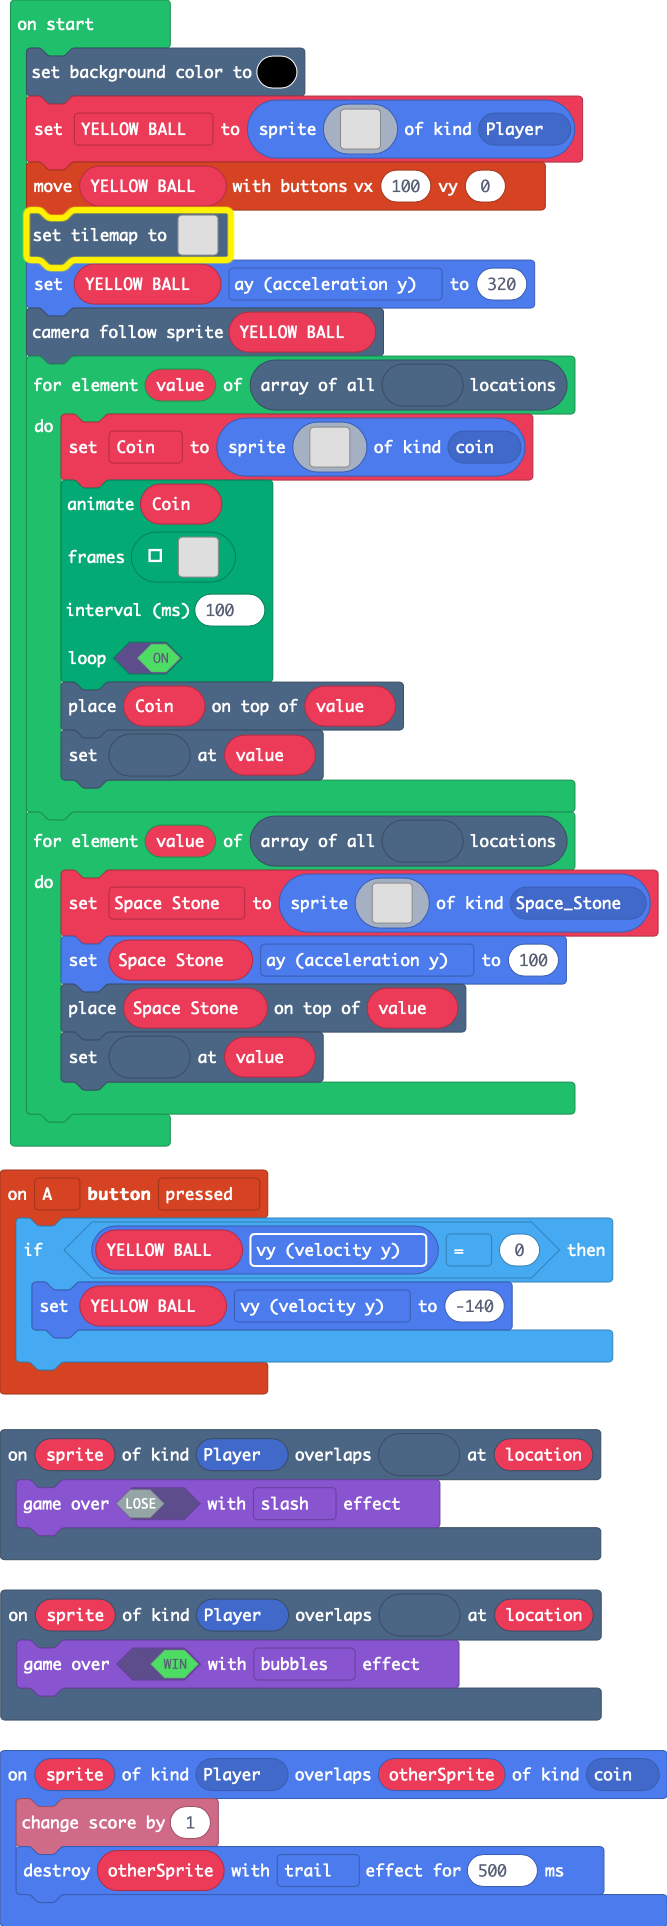
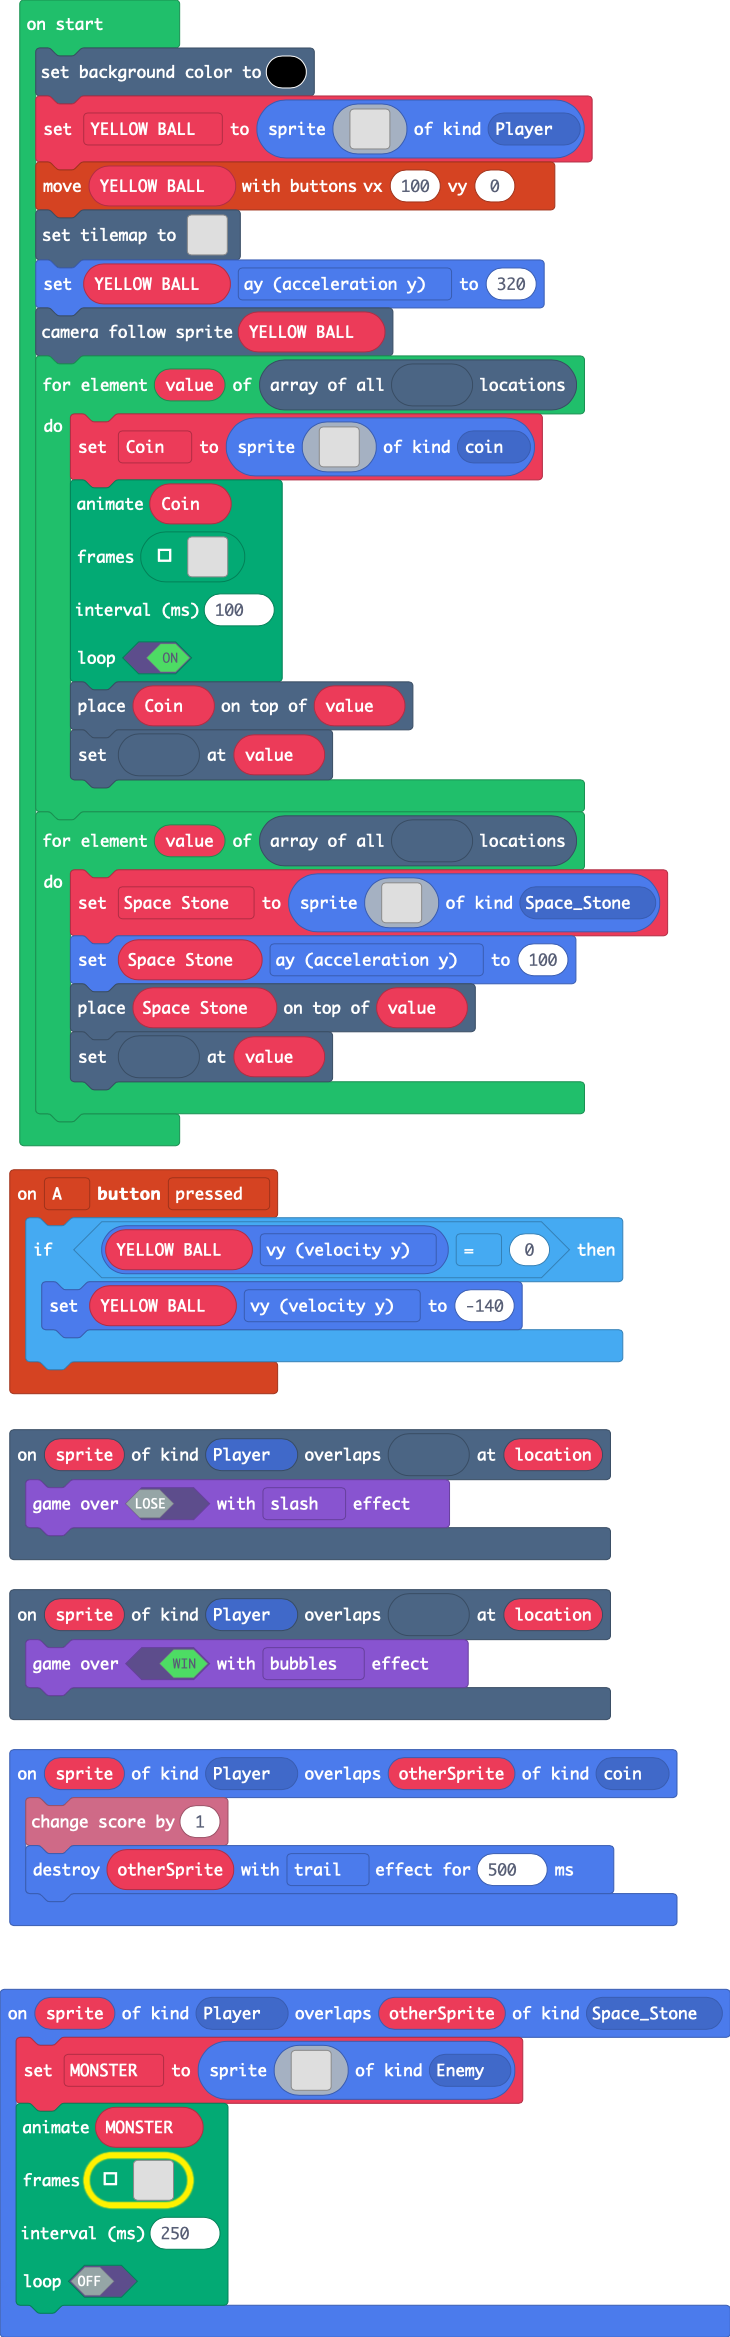
created an enemy animation

diff --git a/main.ts b/main.ts
@@ -137,6 +137,66 @@ f f f f f f f f f f f f f f f f
 7 7 7 7 7 7 7 7 7 7 7 7 7 7 7 7 
 `
 }
+sprites.onOverlap(SpriteKind.Player, SpriteKind.Space_Stone, function (sprite, otherSprite) {
+    MONSTER = sprites.create(img`
+. . . . . . . . . . . . . . . . 
+. . . . . . . . . . . . . . . . 
+. . . . . . . . . . . . . . . . 
+. . . . . . . . . . . . . . . . 
+. . . . . . . . . . . . . . . . 
+. . . . . . . . . . . . . . . . 
+. . . . . . . . . . . . . . . . 
+. . . . . . . . . . . . . . . . 
+. . . . . . . . . . . . . . . . 
+. . . . . . . . . . . . . . . . 
+. . . . . . . . . . . . . . . . 
+. . . . . . . . . . . . . . . . 
+. . . . . . . . . . . . . . . . 
+. . . . . . . . . . . . . . . . 
+. . . . . . . . . . . . . . . . 
+. . . . . . . . . . . . . . . . 
+`, SpriteKind.Enemy)
+    animation.runImageAnimation(
+    MONSTER,
+    [img`
+. . . . . 2 2 2 2 2 . . . . . . 
+. . . . . 2 1 2 1 2 . . . . . . 
+. . . . . 2 2 1 2 2 . . . . . . 
+. . . . . . . 2 . . . . . . . . 
+. . . . 2 2 2 2 2 2 2 . . . . . 
+. . . . . . . 2 . . . . . . . . 
+. . . . . . . 2 . . . . . . . . 
+. . . . . . 2 2 2 . . . . . . . 
+. . . . . 2 2 . 2 2 . . . . . . 
+. . . . . 2 . . . 2 . . . . . . 
+. . . . . . . . . . . . . . . . 
+. . . . . . . . . . . . . . . . 
+. . . . . . . . . . . . . . . . 
+. . . . . . . . . . . . . . . . 
+. . . . . . . . . . . . . . . . 
+. . . . . . . . . . . . . . . . 
+`,img`
+. . . . . 1 1 1 1 1 . . . . . . 
+. . . . . 1 2 1 2 1 . . . . . . 
+. . . . . 1 1 2 1 1 . . . . . . 
+. . . . . . . 1 . . . . . . . . 
+. . . . 1 1 1 1 1 1 1 . . . . . 
+. . . . . . . 1 . . . . . . . . 
+. . . . . . . 1 . . . . . . . . 
+. . . . . . 1 1 1 . . . . . . . 
+. . . . . 1 1 . 1 1 . . . . . . 
+. . . . . 1 . . . 1 . . . . . . 
+. . . . . . . . . . . . . . . . 
+. . . . . . . . . . . . . . . . 
+. . . . . . . . . . . . . . . . 
+. . . . . . . . . . . . . . . . 
+. . . . . . . . . . . . . . . . 
+. . . . . . . . . . . . . . . . 
+`],
+    250,
+    false
+    )
+})
 scene.onOverlapTile(SpriteKind.Player, myTiles.tile5, function (sprite, location) {
     game.over(true, effects.bubbles)
 })
@@ -152,25 +212,26 @@ controller.A.onEvent(ControllerButtonEvent.Pressed, function () {
         YELLOW_BALL.vy = -140
     }
 })
+let MONSTER: Sprite = null
 let Space_Stone: Sprite = null
 let Coin: Sprite = null
 let YELLOW_BALL: Sprite = null
 scene.setBackgroundColor(15)
 YELLOW_BALL = sprites.create(img`
 . . . . . . . . . . . . . . . . 
-. . . . . . . . . . . . . . . . 
-. . . . . . . . . . . . . . . . 
-. . . . 5 5 5 5 5 5 5 5 . . . . 
-. . . . 5 5 5 5 5 5 5 5 . . . . 
-. . . . 5 5 5 5 5 5 5 5 . . . . 
-. . . . 5 5 5 5 5 5 5 5 . . . . 
-. . . . 5 5 5 5 5 5 5 5 . . . . 
-. . . . 5 5 5 5 5 5 5 5 . . . . 
-. . . . 5 5 5 5 5 5 5 5 . . . . 
-. . . . 5 5 5 5 5 5 5 5 . . . . 
-. . . . . . . . . . . . . . . . 
-. . . . . . . . . . . . . . . . 
-. . . . . . . . . . . . . . . . 
+. . . . 5 5 5 5 5 5 5 . . . . . 
+. . . 5 5 5 5 5 5 5 5 5 . . . . 
+. . 5 5 5 5 5 5 f f 5 5 5 . . . 
+. 5 5 5 5 5 5 5 f f 5 5 5 5 . . 
+. 5 5 5 5 5 5 5 5 5 5 5 5 . . . 
+. 5 5 5 5 5 5 5 5 5 5 5 . . . . 
+. 5 5 5 5 5 5 5 5 5 5 . . . . . 
+. 5 5 5 5 5 5 5 5 5 5 5 . . . . 
+. 5 5 5 5 5 5 5 5 5 5 5 5 . . . 
+. 5 5 5 5 5 5 5 5 5 5 5 5 5 . . 
+. . 5 5 5 5 5 5 5 5 5 5 5 . . . 
+. . . 5 5 5 5 5 5 5 5 5 . . . . 
+. . . . 5 5 5 5 5 5 5 . . . . . 
 . . . . . . . . . . . . . . . . 
 . . . . . . . . . . . . . . . . 
 `, SpriteKind.Player)
